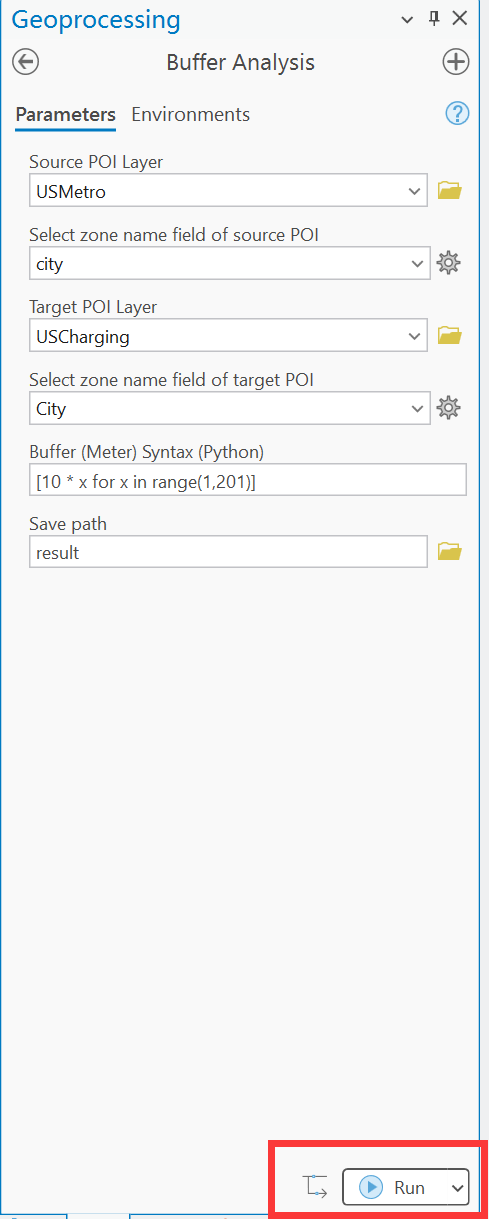
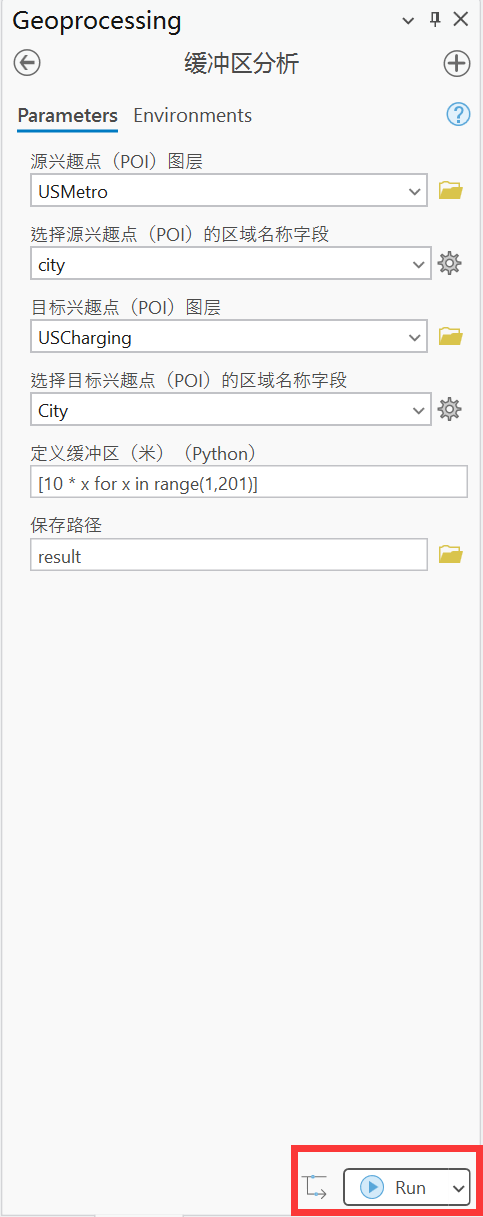
Fix Buffer Analysis docs: paths, text, images
Corrected image path in EN/ZH getting_started pages (./toolbox.png -> ../toolbox.png), fixed Chinese wording (changed “既” to “即”) in buffer analysis docs, updated the Buffer Analysis (Area) title to Chinese, adjusted a link label in the results section, and replaced several guide images in the Chinese toolkit folder to update visuals.

diff --git a/content/zh/toolkit/Buffer-Analysis-Tool/guide/buffer_Analysis_Area.md b/content/zh/toolkit/Buffer-Analysis-Tool/guide/buffer_Analysis_Area.md
@@ -1,5 +1,5 @@
 ---
-title: Buffer Analysis (Area)
+title: 缓冲区分析（面积）
 weight: 2
 ---
 
@@ -16,7 +16,7 @@ weight: 2
 
 ### 源兴趣点（POI）图层
 
-此字段指定包含源兴趣点（POI），既缓冲区中心的点图层。
+此字段指定包含源兴趣点（POI），即缓冲区中心的点图层。
 
 ### 选择源兴趣点（POI）的区域名称字段
 
@@ -66,7 +66,7 @@ weight: 2
 
 结果包含四列：
 
-- **city**：区域名称，由 **[源兴趣点（POI）图层](#源兴趣点poi图层)** 定义.
+- **city**：区域名称，由 **[选择源兴趣点（POI）的区域名称字段](#选择源兴趣点poi的区域名称字段)** 定义.
 - **distance**：缓冲区半径（以米为单位）。
 - **Num**：对于相应的 **city** 和 **distance**，缓冲环与相应城市边界相交的面积（以平方米为单位）。
 - **totalNum**：相应 **city** 的总面积（以平方米为单位）。

diff --git a/content/en/toolkit/Buffer-Analysis-Tool/getting_started.md b/content/en/toolkit/Buffer-Analysis-Tool/getting_started.md
@@ -30,7 +30,7 @@ There are three scripts in the toolbox:
 - **[Buffer Analysis (Area)](../guide/buffer_analysis_area)**: a specialized script that performs buffer analysis based solely on the buffer area.
 - **[District Divide](../guide/district_divid)**: an auxiliary script that divides POIs by polygon for buffer analysis.
 
-![Photo](./toolbox.png)
+![Photo](../toolbox.png)
 
 > [!NOTE]
 > ArcGIS Pro may warn you that opening a Python toolbox runs third-party code. Simply click "Yes" to proceed.

diff --git a/content/zh/toolkit/Buffer-Analysis-Tool/getting_Started.md b/content/zh/toolkit/Buffer-Analysis-Tool/getting_Started.md
@@ -33,7 +33,7 @@ type: docs
 - **[缓冲区分析（面积）](../guide/buffer_analysis_area)**：仅根据缓冲区面积执行分析的专用脚本。
 - **[区域划分](../guide/district_divid)**：用于按多边形划分兴趣点（POI）以进行缓冲区分析的辅助脚本。
 
-![Photo](./toolbox.png)
+![Photo](../toolbox.png)
 
 > [!NOTE]
 > ArcGIS Pro 可能会警告您，打开 Python 工具箱将运行第三方代码。只需点击“是”即可继续。

diff --git a/content/zh/toolkit/Buffer-Analysis-Tool/guide/buffer_Analysis.md b/content/zh/toolkit/Buffer-Analysis-Tool/guide/buffer_Analysis.md
@@ -16,7 +16,7 @@ weight: 1
 
 ### 源兴趣点（POI）图层
 
-此字段指定包含源兴趣点（POI），既缓冲区中心的点图层。
+此字段指定包含源兴趣点（POI），即缓冲区中心的点图层。
 
 ### 选择源兴趣点（POI）的区域名称字段
 
